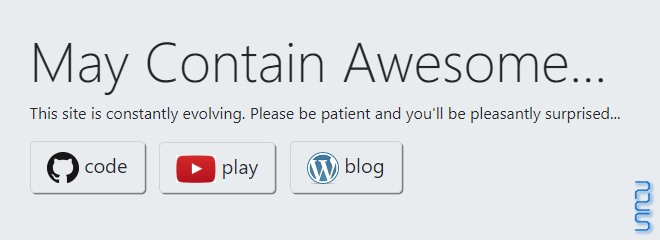
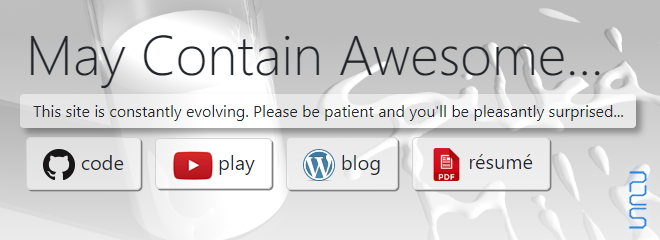
Making things prettier

diff --git a/ParkerSmart/Content/Site.css b/ParkerSmart/Content/Site.css
@@ -41,15 +41,21 @@ textarea {
 	margin-bottom: 1em;
 }
 
-/*
-	background-attachment: static;
- */
-
 .jumbotron-background {
 	background-position: center;
 	background-repeat: no-repeat;
 	background-size: cover;
 	background-image: linear-gradient(to bottom, rgba(255, 255, 255, 0.3) 25%, rgba(255, 255, 255, 0.9) 100%), url('../Images/Milk Spill 3.png');
+}
+
+.p-jumbo {
+	background: rgba(255, 255, 255, 0.5);
+	border-width: 0.06em;
+	border-radius: 0.25em;
+	box-shadow: 0.3em 0.3em 0.4em rgba(64, 64, 64, 0.5);
+	display: inline-block; /* or block */
+	margin: 0em 0em 0.6em -0.4em;
+	padding: 0.3em 0.8em 0.3em 0.8em;
 }
 
 .row-divider {

diff --git a/ParkerSmart/Controllers/HomeController.cs b/ParkerSmart/Controllers/HomeController.cs
@@ -1,4 +1,7 @@
-using ParkerSmart.Utilities;
+using ParkerSmart.Models;
+using ParkerSmart.Utilities;
+using System;
+using SysIO = System.IO;			// Because File() is a method off of Controller
 using System.Web.Mvc;
 
 namespace ParkerSmart.Controllers
@@ -27,6 +30,7 @@ namespace ParkerSmart.Controllers
 		{
 			Title = "Home";
 
+			SetVersion();
 			ControllerUtility.SetTwitterCard(ViewBag);
 
 			return View();
@@ -60,6 +64,16 @@ namespace ParkerSmart.Controllers
 		}
 
 		//----==== PRIVATE ====--------------------------------------------------------------------
+
+		private void SetVersion()
+		{
+			// "File()" is a method off of the controller.  :(
+
+			var versionFilePath = $"{Server?.MapPath("~")}bin{SysIO.Path.DirectorySeparatorChar}{Constants.APPLICATION_VERSION_FILE}";
+			var fileDate = SysIO.File.Exists(versionFilePath) ? SysIO.File.GetLastWriteTime(versionFilePath) : (DateTime?)null;
+
+			ViewUtility.Version(fileDate?.ToString("yyyy.MM.dd"));
+		}
 
 		/// <summary>
 		/// The Title used on each page.

diff --git a/ParkerSmart/Utilities/ViewUtility.cs b/ParkerSmart/Utilities/ViewUtility.cs
@@ -6,6 +6,8 @@ namespace ParkerSmart.Utilities
 	{
 		private const int BASE_COPYRIGHT_YEAR = 2006;
 
+		private static string _version;
+
 		public static string CopyrightDates()
 		{
 			string result = BASE_COPYRIGHT_YEAR.ToString();
@@ -16,6 +18,16 @@ namespace ParkerSmart.Utilities
 			}
 
 			return result;
+		}
+
+		public static string Version(string version = null)
+		{
+			if (_version == null && version != null)
+			{
+				_version = version;
+			}
+
+			return _version;
 		}
 	}
 }

diff --git a/ParkerSmart/Models/Constants.cs b/ParkerSmart/Models/Constants.cs
@@ -4,6 +4,7 @@
 	{
 //		public const string APPLICATION_NAME = "ZρZ";
 		public const string APPLICATION_NAME = "pds";
+		public const string APPLICATION_VERSION_FILE = "ParkerSmart.dll";
 
 		public const string TWITTER_CREATOR_ID = "@SpilledMilkCOM";
 		public const string TWITTER_ID = "@SpilledMilkCOM";
